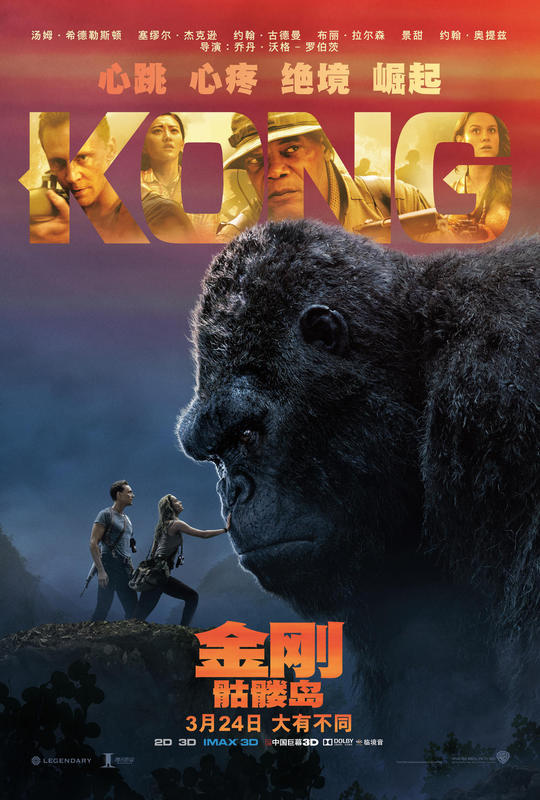
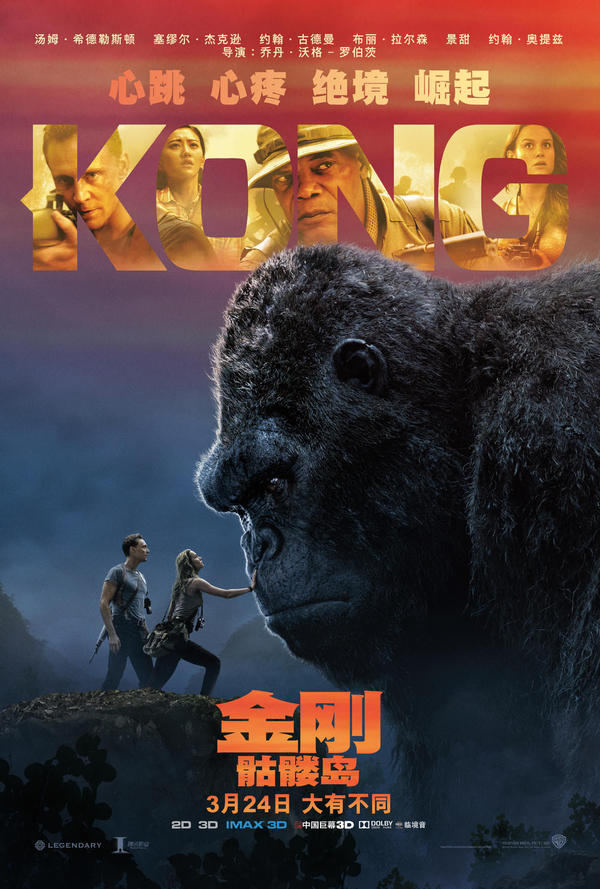
add image to movie

diff --git a/app/assets/stylesheets/movies.scss b/app/assets/stylesheets/movies.scss
@@ -1,3 +1,97 @@
 // Place all the styles related to the movies controller here.
 // They will automatically be included in application.css.
 // You can use Sass (SCSS) here: http://sass-lang.com/
+
+#custom_carousel .item  .top {
+    overflow:hidden;
+    max-height:300px;
+    margin-bottom:15px;
+}
+#custom_carousel .item {
+
+    color:#000;
+    background-color:#fff;
+    padding:20px 0;
+    overflow:hidden
+}
+#custom_carousel .item img{
+width:100%;
+height:auto
+}
+
+#custom_carousel .izq
+{
+    position:absolute;
+  left: -25px;
+  top:40%;
+  background-image: none;
+  background: none repeat scroll 0 0 #222222;
+  border: 4px solid #FFFFFF;
+  border-radius: 23px;
+  height: 40px;
+  width : 40px;
+  margin-top: 30px;
+}
+/* Next button  */
+#custom_carousel .der
+{
+       position:absolute;
+  right: -25px !important;
+  top:40%;
+  left:inherit;
+  background-image: none;
+  background: none repeat scroll 0 0 #222222;
+  border: 4px solid #FFFFFF;
+  border-radius: 23px;
+  height: 40px;
+  width : 40px;
+  margin-top: 30px;
+}
+#custom_carousel .controls{
+
+    overflow:hidden;
+    padding:0;
+    margin:0;
+    white-space: nowrap;
+    text-align: center;
+    position: relative;
+    background:#fff;
+    border:0;
+}
+#custom_carousel .controls .nav{
+
+    padding:0;
+    margin:0;
+    white-space: nowrap;
+    text-align: center;
+    position: relative;
+    background:#fff;
+    width: auto;
+    border: 0;
+}
+#custom_carousel .controls li {
+    transition: all .5s ease;
+    display: inline-block;
+    max-width: 100px;
+    height: 90px;
+    opacity:.5;
+}
+#custom_carousel .controls li a{
+    padding:0;
+}
+#custom_carousel .controls li img{
+width:100%;
+height:auto
+}
+
+#custom_carousel .controls li.active {
+    background-color:#fff;
+    opacity:1;
+}
+#custom_carousel .controls a small {
+    overflow:hidden;
+    display:block;
+    font-size:10px;
+    margin-top:5px;
+    font-weight:bold
+}

diff --git a/app/assets/javascripts/application.js b/app/assets/javascripts/application.js
@@ -15,4 +15,5 @@
 //= require turbolinks
 //= require bootstrap/alert
 //= require bootstrap/dropdown
+//= require bootstrap-sprockets
 //= require_tree .

diff --git a/app/uploaders/image_uploader.rb b/app/uploaders/image_uploader.rb
@@ -34,14 +34,14 @@ class ImageUploader < CarrierWave::Uploader::Base
   #   process resize_to_fit: [50, 50]
   # end
 
-  process resize_to_fit: [800,800]
+  process resize_to_fit: [600,900]
 
   version :thumb do
-    process resize_to_fill: [200,200]
+    process resize_to_fill: [200,300]
   end
 
   version :medium do
-    process resize_to_fill: [400,400]
+    process resize_to_fill: [400,600]
   end
 
   # Add a white list of extensions which are allowed to be uploaded.

diff --git a/app/controllers/movies_controller.rb b/app/controllers/movies_controller.rb
@@ -30,7 +30,7 @@ class MoviesController < ApplicationController
 
   def update
     if @movie.update(movie_params)
-      redirect_to movies_path, notice: "Update Success"
+      redirect_to movie_path(@movie), notice: "Update Success"
     else
       render :edit
     end
